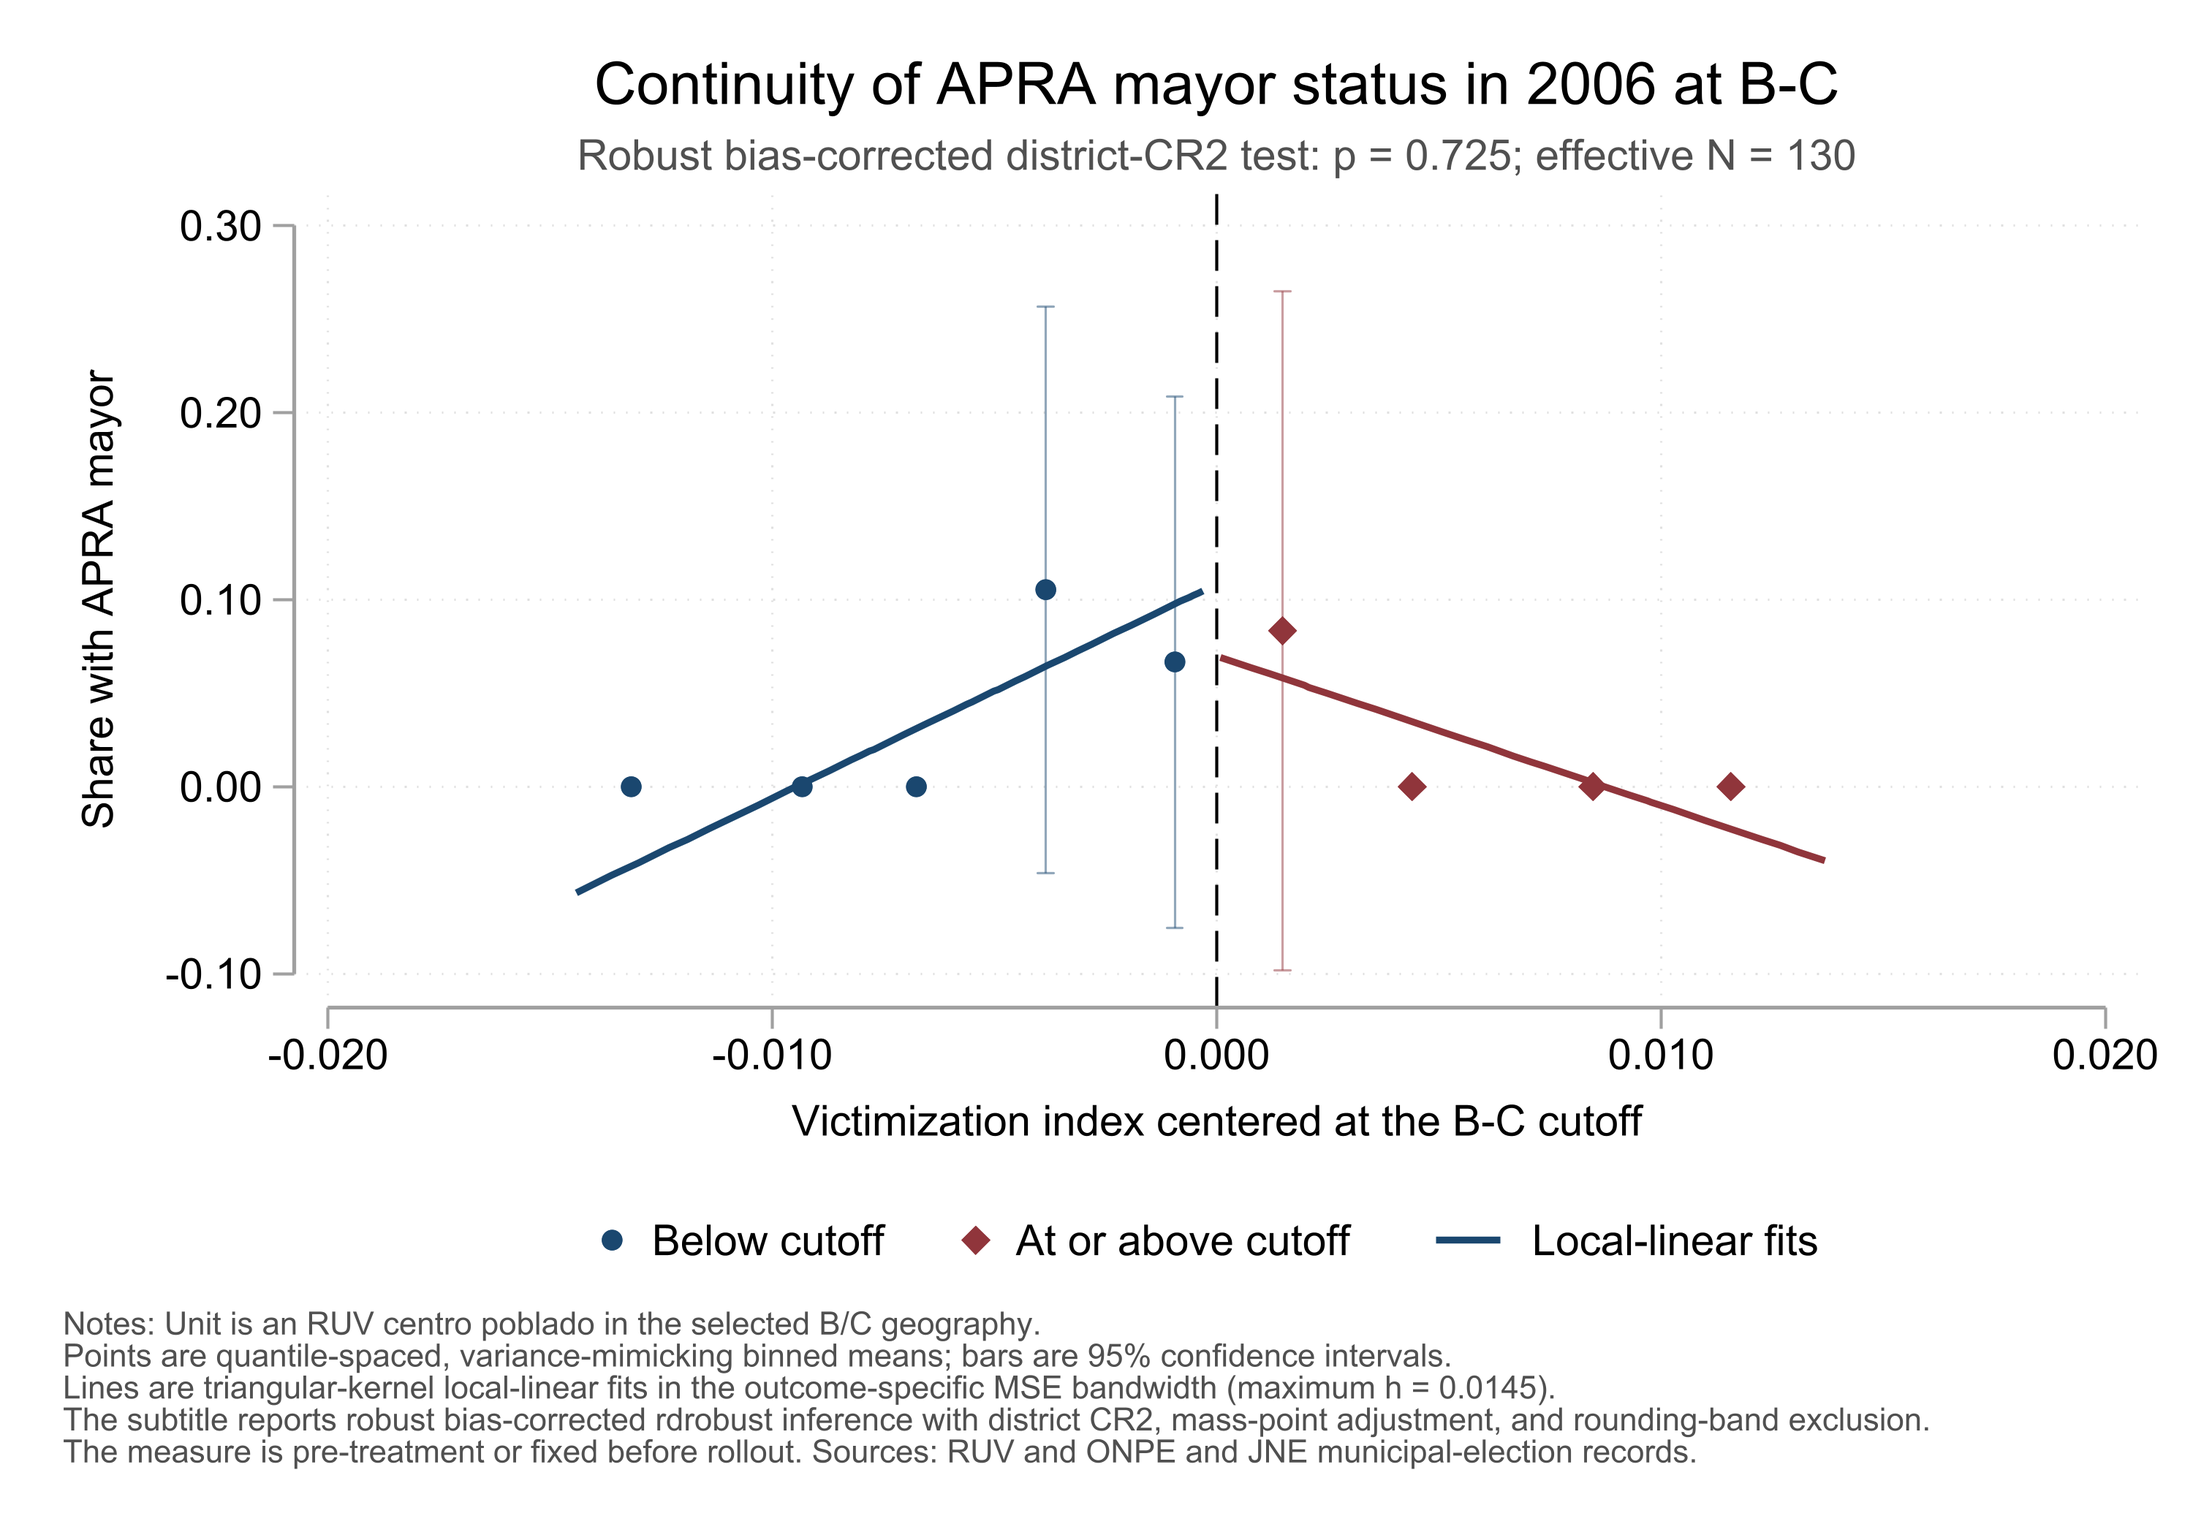
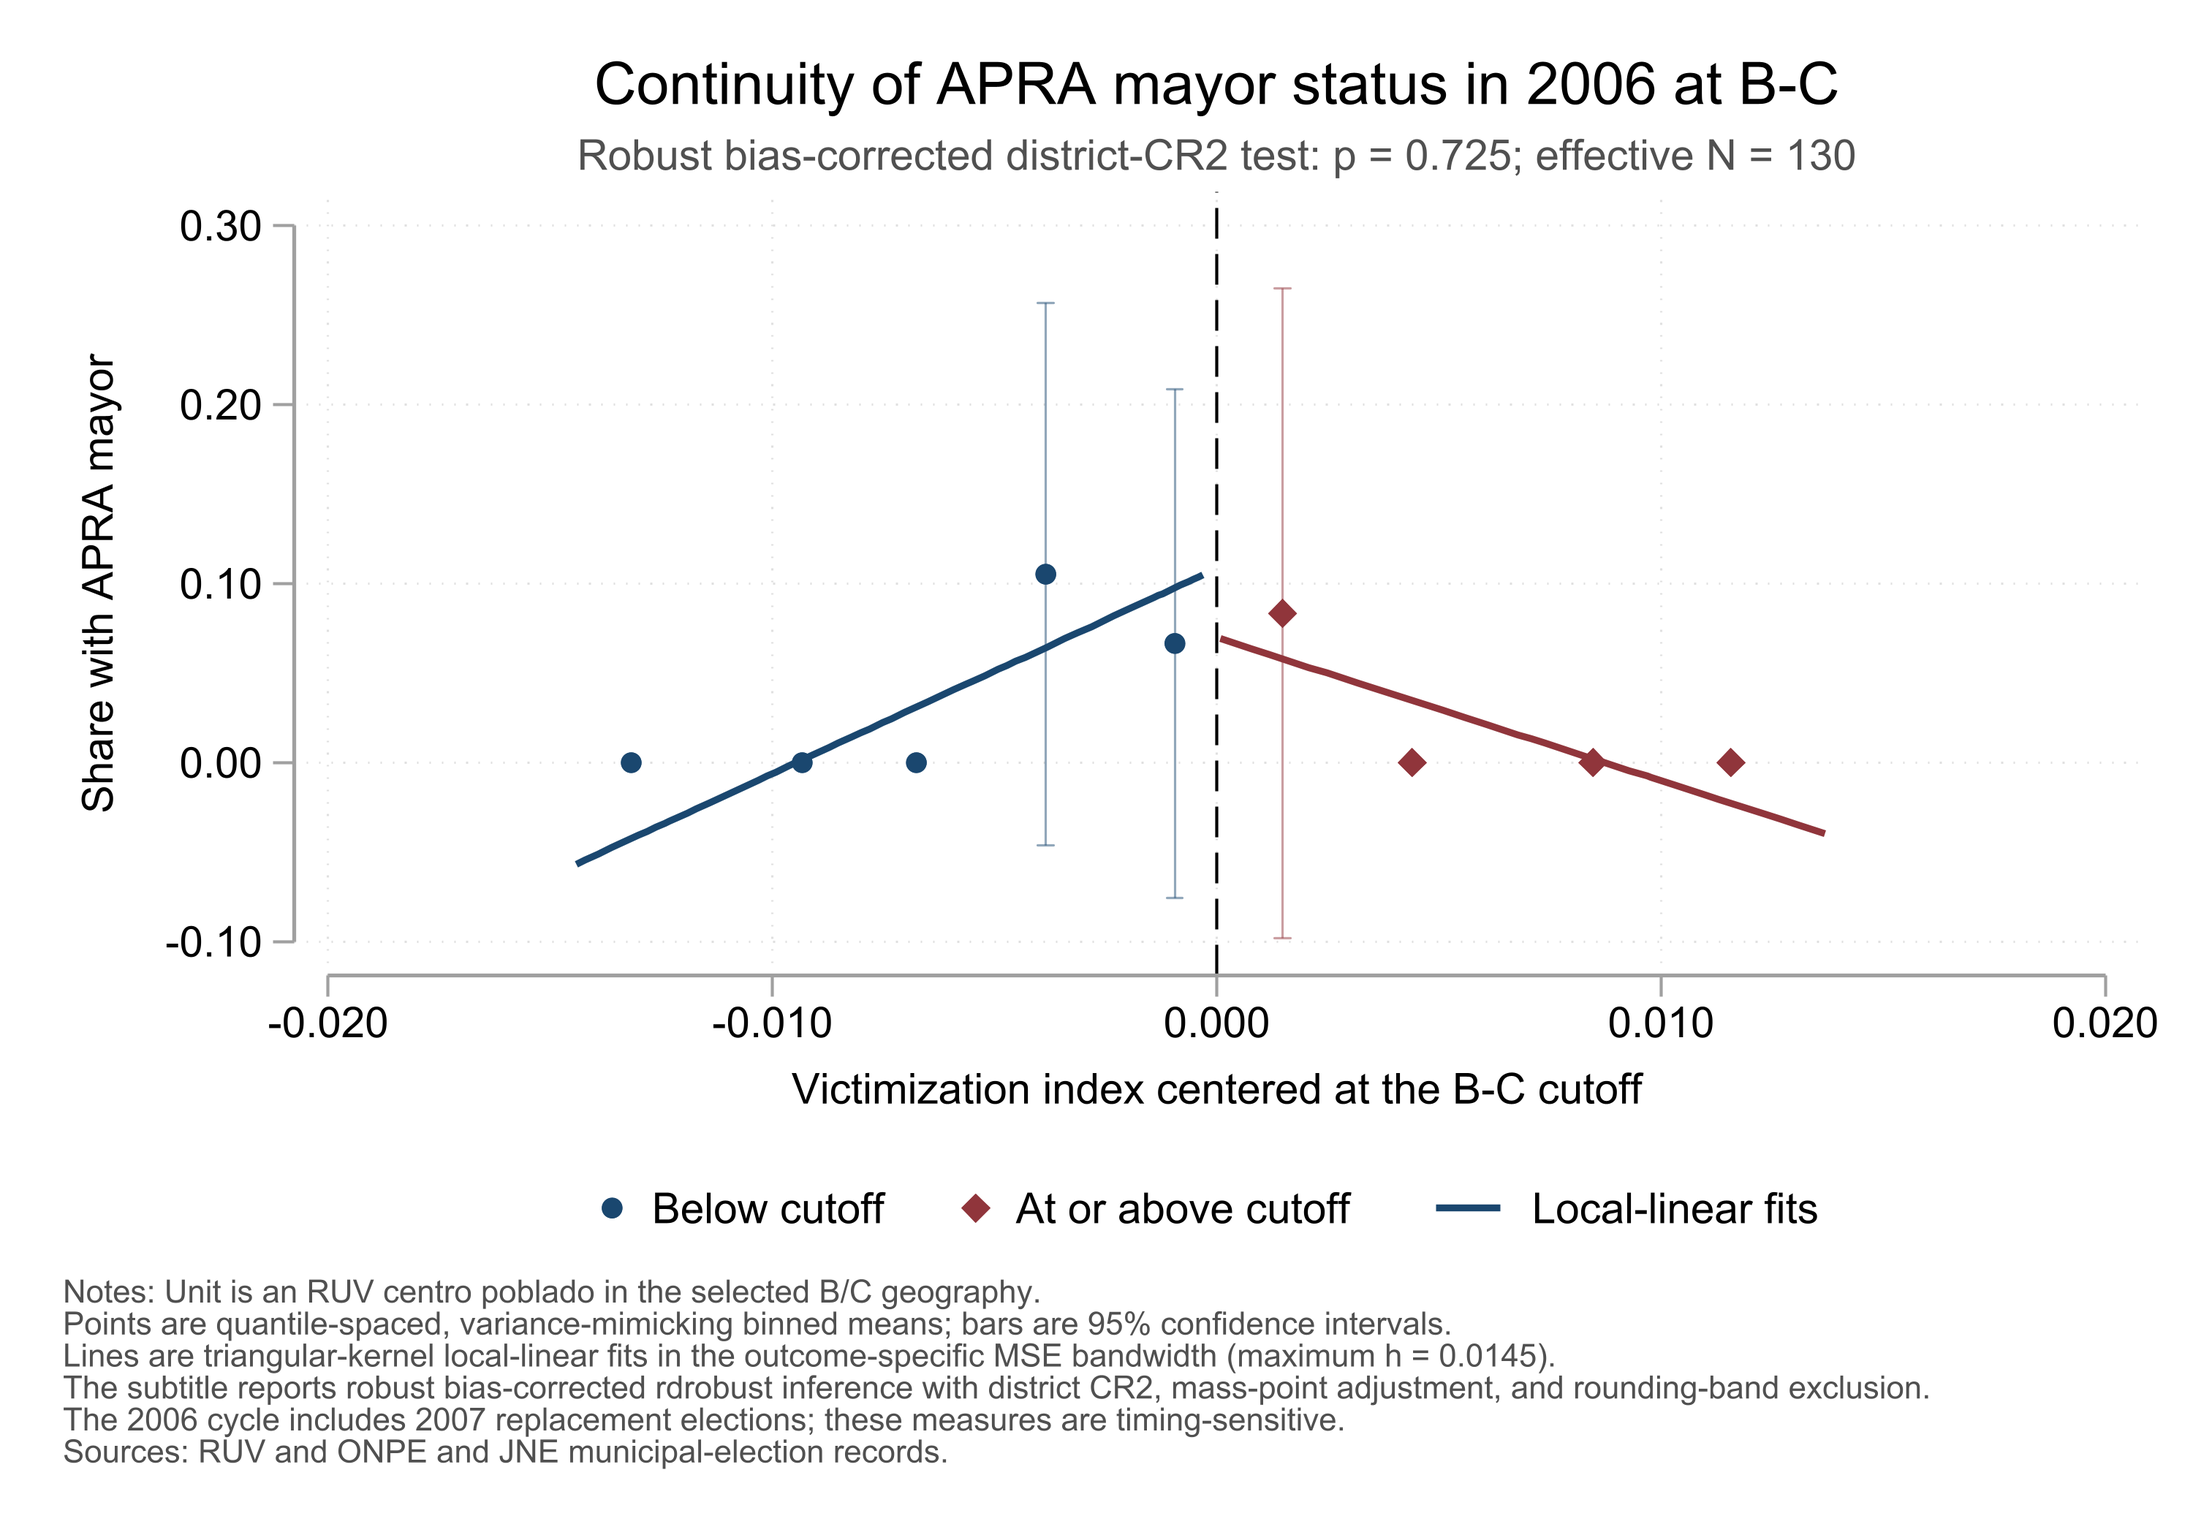
Clarify municipal-election timing in RD diagnostic figures
Disclose 2007 replacement-election returns in the three 2006-cycle covariate
continuity graphs, and place source attribution on a separate note line.
Regenerate the affected PNGs through Stata MCP and refresh only their checksum
and run-ID entries in the RD-validation manifest.

Preserve every observation, sample, estimate, bandwidth, formal test, variance
branch, and registered 11-core/six-timing multiplicity family. Add a superseding
19-artifact review registry and repair receipt while retaining the earlier
audit history; update the project-context pointer.

Validate all 19 final producer replicas, all 36 Stata checksums, byte-identical
before/after numerical audits, and agreement with the frozen formal results.
Confirm two replacement inputs among 549 eligible communities and one in each
existing effective bandwidth. Review all 19 figures at the manuscript's full
width, verify exact embedded pixels, and complete fresh independent review.
Existing publication-review checks and whitespace checks pass.

Keep Dropbox data and live Overleaf inputs unchanged. No datasets enter Git.
All 19 figures remain internal candidates pending integration approval and
public release. Small-note/publisher-font limits, the formal table's historical
family-label qualification, and all scientific/selection boundaries remain.

diff --git a/docs/RD_ELECTION_TIMING_NOTE_REPAIR_2026-10-03.md b/docs/RD_ELECTION_TIMING_NOTE_REPAIR_2026-10-03.md
@@ -1,0 +1,187 @@
+# Municipal-election graphical timing-note repair - 3 October 2026
+
+## Binding decision and scope
+
+The owner's instruction to fully implement the next workflow step authorizes
+the three additional election-timing note-only repairs identified and held in
+[the preceding graphical audit](RD_GRAPHICAL_PUBLICATION_AUDIT_2026-10-03.md).
+That receipt and its 16-candidate/three-held registry remain preserved as dated
+historical evidence. This receipt and
+[the current 19-row review registry](../metadata/rd-graphical-review-after-election-notes-2026-10-03.csv)
+supersede only their outstanding repair disposition and current artifact hashes.
+
+The authoritative generator remains
+`code/stata/pipeline/03b_validate_rd_assumptions.do`. Only G11-G13 are repaired:
+the 2006-cycle turnout, victory-margin, and APRA-mayor continuity plots, numbered
+18-20 by the Stata program. Their source note now reads:
+
+> The 2006 cycle includes 2007 replacement elections; these measures are timing-sensitive.
+
+The source attribution is on a separate line to preserve visibility. No title,
+axis, observation, variable, sample, estimate, bandwidth, formal test, variance
+branch, or registered multiplicity family is changed. In particular, the three
+tests stay in their existing 11-variable core family; the six-variable 2007
+timing-sensitive family is unchanged. Historical family membership is not proof
+that every component is genuinely predetermined.
+
+All 19 diagnostic figures are now **reviewed internal candidates, pending owner
+integration**. Their specific election-note repair hold is resolved; none is
+approved for live Overleaf integration or public release. The previous approval
+of 35 internal-draft exhibits does not extend to these 19. Generation-manifest
+`generated_unreviewed` fields remain intact; review is a separate dated event.
+
+## Source timing and unchanged numerical evidence
+
+[The electoral source workflow](MUNICIPAL_ELECTIONS_PREPARATION.md#timing-and-inference-cautions)
+already documents that the 2006 cycle includes 22 replacement results observed
+in 2007 nationally, identified by `elect_result_year_2006` and
+`elect_complementary_2006`. A fresh aggregate Stata check finds two such records
+among the 549 eligible B/C communities. Both have nonmissing values for all
+three affected measures; one enters each existing effective MSE bandwidth.
+These counts describe overlapping diagnostic subsets, not three different
+replacement communities. No record is removed or reassigned.
+
+The canonical input is the configured Dropbox Coded
+`08_community_registry_elections.dta`. All 5,712 RUV observations are preserved,
+with Stata signature `5712:283(61209):2588972924:1448729060`. The frozen geography
+contains 1,162 observations; the adjacent B/C universe contains 549. These are
+selected-sample RD diagnostics, not the full RUV distribution.
+
+| Diagnostic | Nominal robust p | Effective N below/above | Replacement inputs/effective |
+|---|---:|---:|---:|
+| Municipal turnout, 2006 cycle | 0.43698364 | 71 / 44 | 2 / 1 |
+| Municipal victory margin, 2006 cycle | 0.27083415 | 49 / 26 | 2 / 1 |
+| APRA mayor, 2006 cycle | 0.72501308 | 83 / 47 | 2 / 1 |
+
+Each measure was checked in raw units and in the standardized units used by
+the existing formal table, before and after the note repair. The procedure is
+unchanged: local-linear `rdrobust`, quadratic bias correction, triangular kernel,
+MSE-optimal bandwidth, district CR2 variance, mass-point adjustment, and the
+existing rounding-band exclusion. Frozen p-values pass tolerance 0.0000005;
+bandwidths pass 0.00000001; effective N agrees exactly. Raw/standardized p-values
+agree within 0.00001 and bandwidths within 0.000001. These are comparison
+tolerances, not changes to estimation or inference.
+
+The three-row before/after numerical CSV is byte-identical, SHA-256
[1 lines of base64/hex data omitted]
+It records aggregate model statistics only, not research observations. All 17
+formal covariate rows, denominators, p-values, bandwidths, and family adjustments
+in the current artifact registry agree with the unchanged frozen results.
+BH and Holm values were independently recalculated within the existing 11/6
+families and agree within 0.0000005.
+
+The previous density and covariate interpretation limits remain binding. The
+absence of adjusted rejections is not proof of balance, no manipulation, or
+causal validity. The nominal GDP and 2002 effective-list discrepancies remain
+visible. Plot bars are bin-mean confidence intervals, not district-CR2 intervals;
+the subtitles identify the separate formal CR2 test. No binary/share fits or
+intervals are truncated to their outcome support. Common primary-outcome
+bandwidths, all 48 registered primary tests, linkage/selection boundaries, and
+other analytical results are untouched.
+
+## Execution, provenance, and protected scope
+
+The batch began on clean `main` at
+`e90fda02d125daa529b18ae06cdb29b2188ff20c`, after the owner committed the preceding
+batch. There were no pre-existing uncommitted changes. The fresh baseline
+protects 898 paths: 801 tracked files and the needed live publication inputs
+and canonical input dataset. This is a bounded protected-input check, not a
+new exhaustive audit of all Dropbox files.
+
+- All Stata commands used MCP `stata_run_selection`, in the isolated
+  `rd_election_note_20261003` session. The user's default session was not changed
+  or destroyed. No ad hoc `.do` file, shell Stata invocation, or `stata_run_file`
+  was used.
+- The configured, already installed PLUS cache and `plotplainblind` scheme
+  were verified; no packages were installed or upgraded.
+- The three original rendered notes failed the missing-caveat tests. The three
+  repaired Stata SVGs pass semantic and note-position/clipping checks. SVGs are
+  ignored review intermediates, not new canonical publication formats.
+- The original three PNGs were reproduced before editing. All 19 current
+  canonical PNGs were then reproduced through their authoritative graphical
+  producing selections, byte-identically. Exactly three canonical PNGs changed
+  from this batch's baseline; the other 16 are unchanged.
+- All 36 manifest checksums pass in Stata before and after regeneration. Only
+  checksum and run-ID fields in the three repaired rows change. The other 33
+  rows retain their field values. The repair run is
+  `03oct2026_155404_election_notes`.
+- Existing publication-review checks pass for the 99-item review snapshot,
+  documentary source hashes, and 35-exhibit internal review pack; all release
+  holds are intact. This is not another complete master/data-preparation run.
+- No Raw, archive, Working, or Coded dataset is changed. No data is copied into
+  Git/build. All protected live TeX, bibliography, and 35 approved live artifact
+  copies are unchanged. No live synchronization, staging, commit, or push occurs.
+
+The six allowed modifications to existing protected files are the producing
+Stata program, its manifest, three PNGs, and `PROJECT_CONTEXT.md`. The two new
+versioned paths are this receipt and the superseding artifact registry. The
+preceding receipt and registry are preserved, not rewritten as if the notes had
+always been correct. Baseline/current fields in the new registry retain the
+original audit baseline and current cumulative hashes; the local fresh baseline
+separately records this batch's starting hashes.
+
+NotebookLM was consulted at the explicit Peru project URL but returned an
+authentication/HTML failure. Zotero's exact shared library
+`IE Collective Reparations Peru` was consulted read-only; metadata was available.
+Neither was used to infer administrative election timing or claim fresh
+attachment/full-corpus verification. The existing source workflow and canonical
+data fields support this provenance qualification; no new academic claim or
+citation is introduced.
+
+## Actual-size inspection and current review boundary
+
+The ignored 19-page review packet is
+`build/rd-election-note-repair-2026-10-03/rd-diagnostics-after-election-notes.pdf`,
[1 lines of base64/hex data omitted]
+Each page embeds the canonical 3,000-by-2,100 PNG at the current manuscript's
+165.1 mm (6.5-inch) full width, approximately 462 ppi. All 19 embedded images
+match canonical RGB pixels exactly. The repaired pages 11-13 were visually
+inspected at this width: title/subtitle remain one line, source and timing notes
+are visible, and no clipping or overlap was observed. The unchanged 16 source
+plots retain the preceding full-width review; the new packet layout is checked
+separately. Poppler reports display-font lookup warnings, but the inspected
+pages have no missing or damaged glyphs.
+
+Bottom notes remain approximately 6.8 pt at this full width. This is internal
+review clearance only, not certification of a publisher's font minimum.
+Half-width or composite placement is not cleared. The source limitations on
+2017 geographic proxies, GDP source units and 2007 population allocation,
+2007 Census timing, and linkage selection remain necessary qualifications.
+
+## Next publication decision
+
+The next step is a **separate, explicitly authorized internal-draft integration
+of the complete 19-figure diagnostic family** at full width in an Online
+Appendix C supplement, with the formal family table and the full interpretation
+qualifications available to readers. Do not select only reassuring plots or
+place all 19 in the main article. The existing formal table's historical
+"Predetermined measures" label must be explicitly qualified in surrounding
+appendix text (including the 2007 replacement returns) rather than interpreted
+as proof that every registered core measure predates rollout. Any generated
+table wording repair must originate in Stata, not a manual Overleaf edit.
+
+Integration requires exact-path/checksum checks and a fresh appendix
+compilation. It does not authorize public release or submission. Remaining
+software-version locking, administrative/submission-file completion, and
+disclosure/public-release approval follow that decision; no new sample search
+or estimation strategy is required by this repair.
+
+## Independent closeout
+
+A fresh read-only reviewer inspected the full uncommitted batch and all 19
+current packet pages: repaired pages 11-13 at 120 dpi and the other pages at
+90 dpi. The reviewer independently rehashed all 898 protected paths, checked
+all 19 replicas and canonical embedded RGB images, reran the original failing
+and repaired passing note checks, verified frozen formal values and family
+adjustments, and inspected the aggregate Stata execution log. The result is
+zero Critical findings, zero Important findings within this batch, and zero
+actionable Minor findings. The three original note defects are resolved.
+
+The acknowledged approximately 6.8-point notes and the formal table's historical
+family heading remain explicit downstream qualifications, not newly certified
+publication properties. The reviewer did not rerun Stata or infer causal
+identification, linkage ignorability, integration approval, or release readiness.
+No reviewer files were changed. Final protected-scope, artifact/registry/PDF,
+publication-review, and whitespace checks pass; no files are staged, committed,
+or pushed. Completion applies to these three note repairs and their bounded
+checks, not the entire research project or a release-ready manuscript.

diff --git a/docs/PROJECT_CONTEXT.md b/docs/PROJECT_CONTEXT.md
@@ -1,5 +1,20 @@
 # Victimas RD project context
 
+## 3 October 2026: election-timing graphical repair closeout
+
+Read [the superseding repair receipt](RD_ELECTION_TIMING_NOTE_REPAIR_2026-10-03.md)
+and `metadata/rd-graphical-review-after-election-notes-2026-10-03.csv` before
+using the additional 19 RD diagnostic figures. The owner authorized the three
+remaining note-only repairs. G11-G13 now disclose 2007 replacement-election
+returns in the 2006 cycle; their specific repair holds are resolved. All 19
+are reviewed internal candidates, still pending owner integration and public
+release. All samples, estimates, bandwidths, formal tests, and the existing
+11-variable core/six-variable timing families are unchanged. Historical family
+labels do not establish genuine pre-program timing. The previous 16/3 receipt
+below remains dated history, not the current repair disposition. No Dropbox
+data or live manuscript changed. Full-width-only review, small-note/font
+limits, and every scientific/selection qualification remain binding.
+
 ## 3 October 2026: held RD graphical diagnostic audit
 
 Read [the graphical audit receipt](RD_GRAPHICAL_PUBLICATION_AUDIT_2026-10-03.md)
